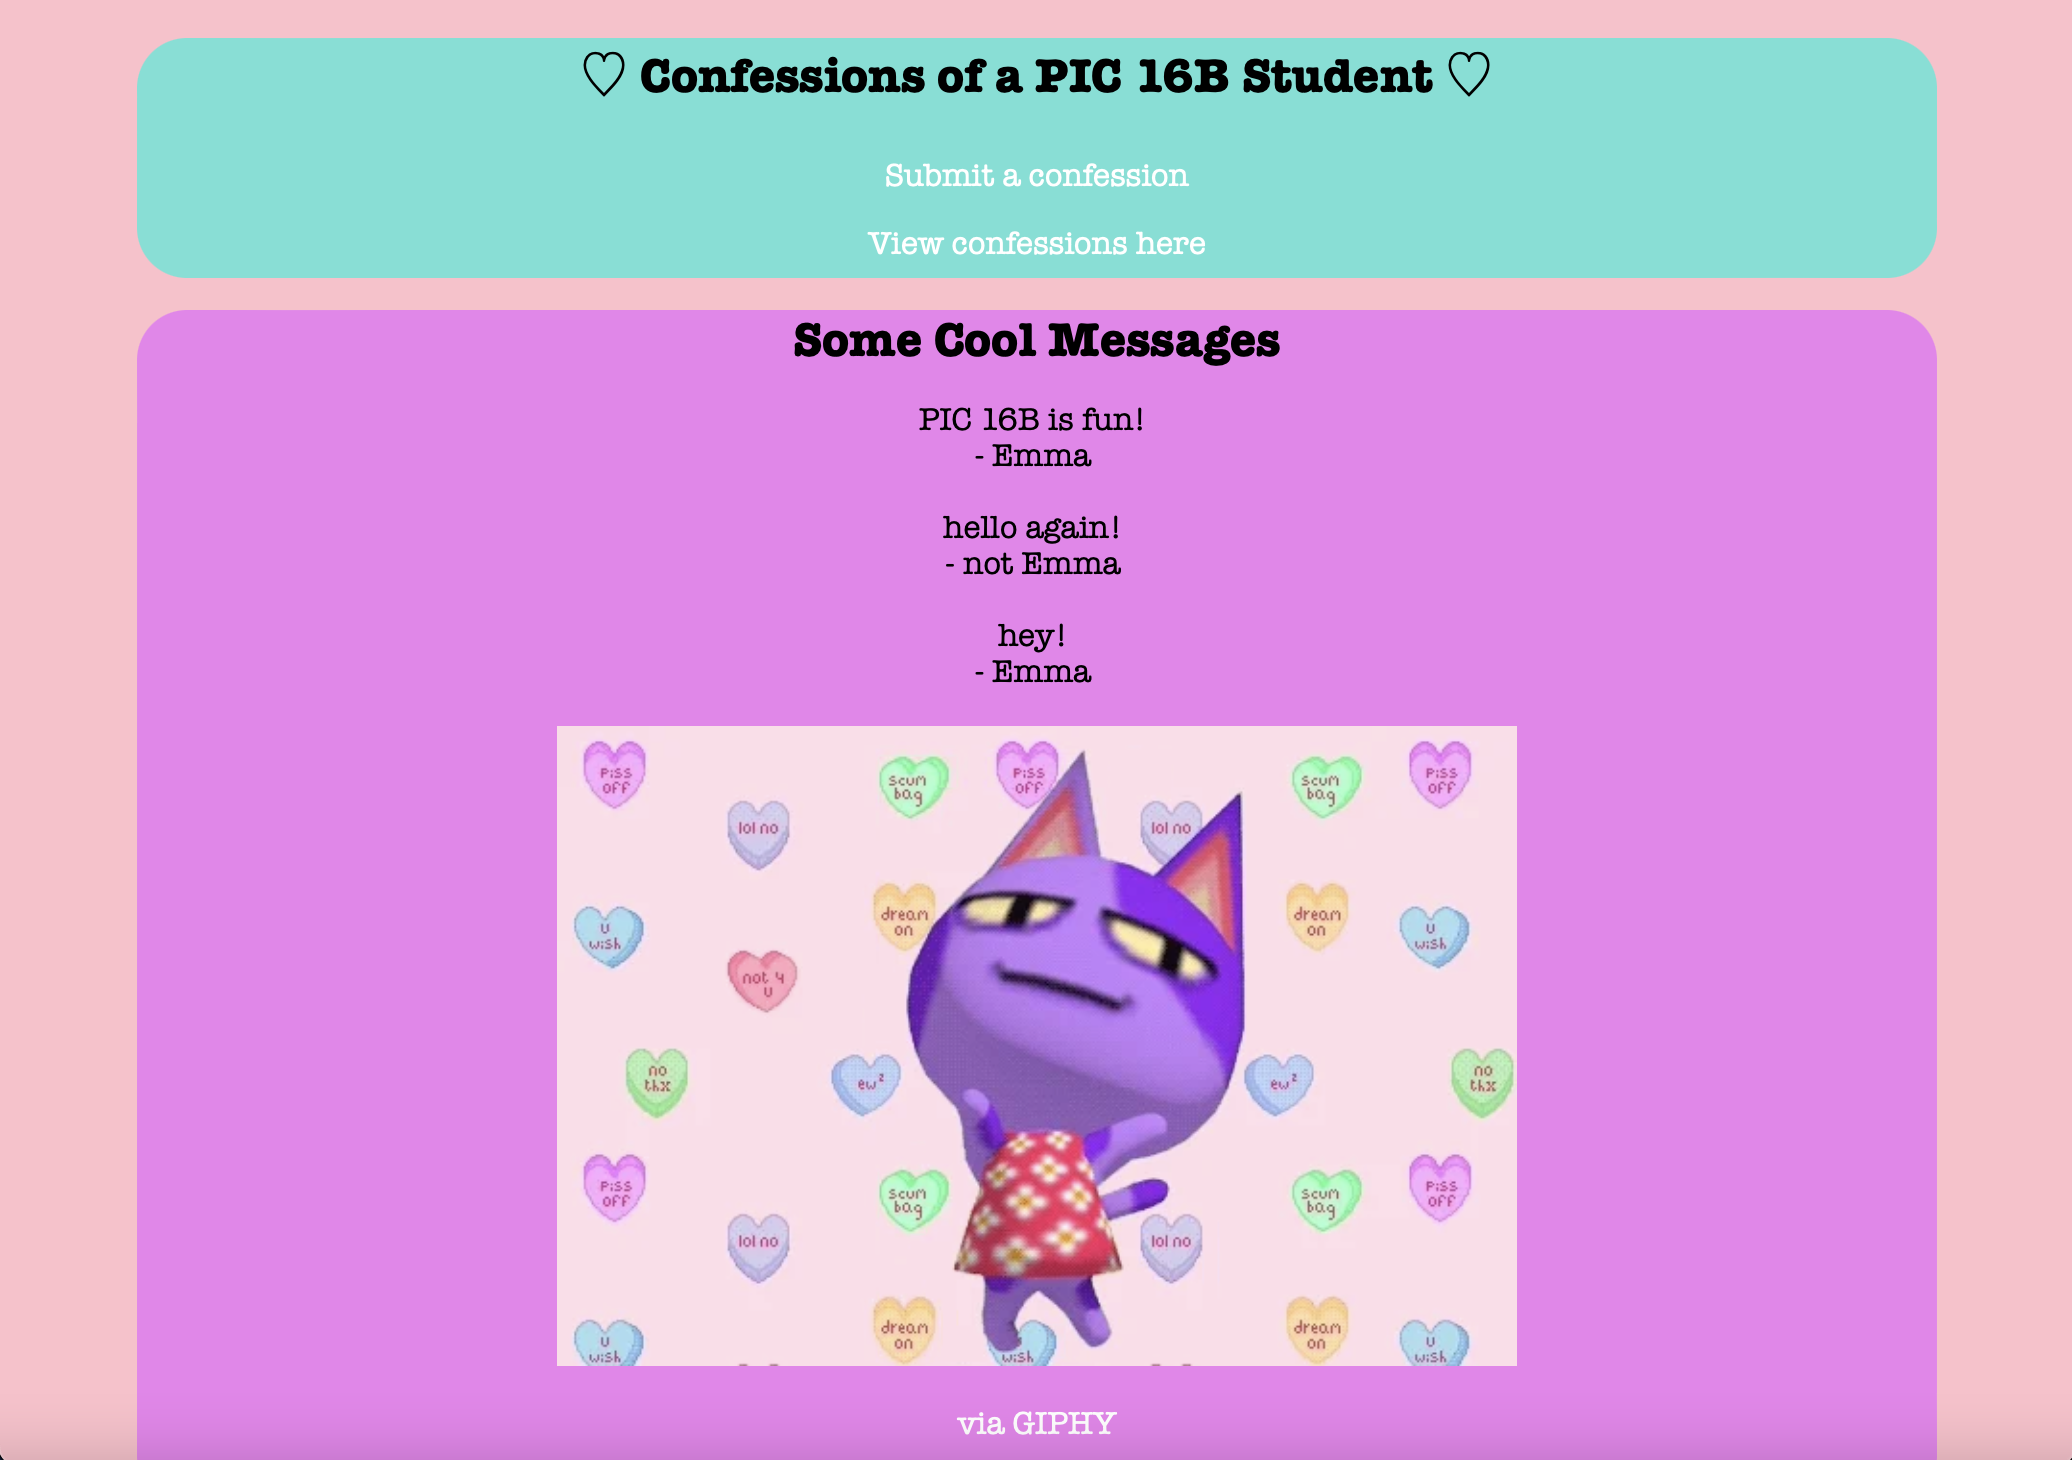
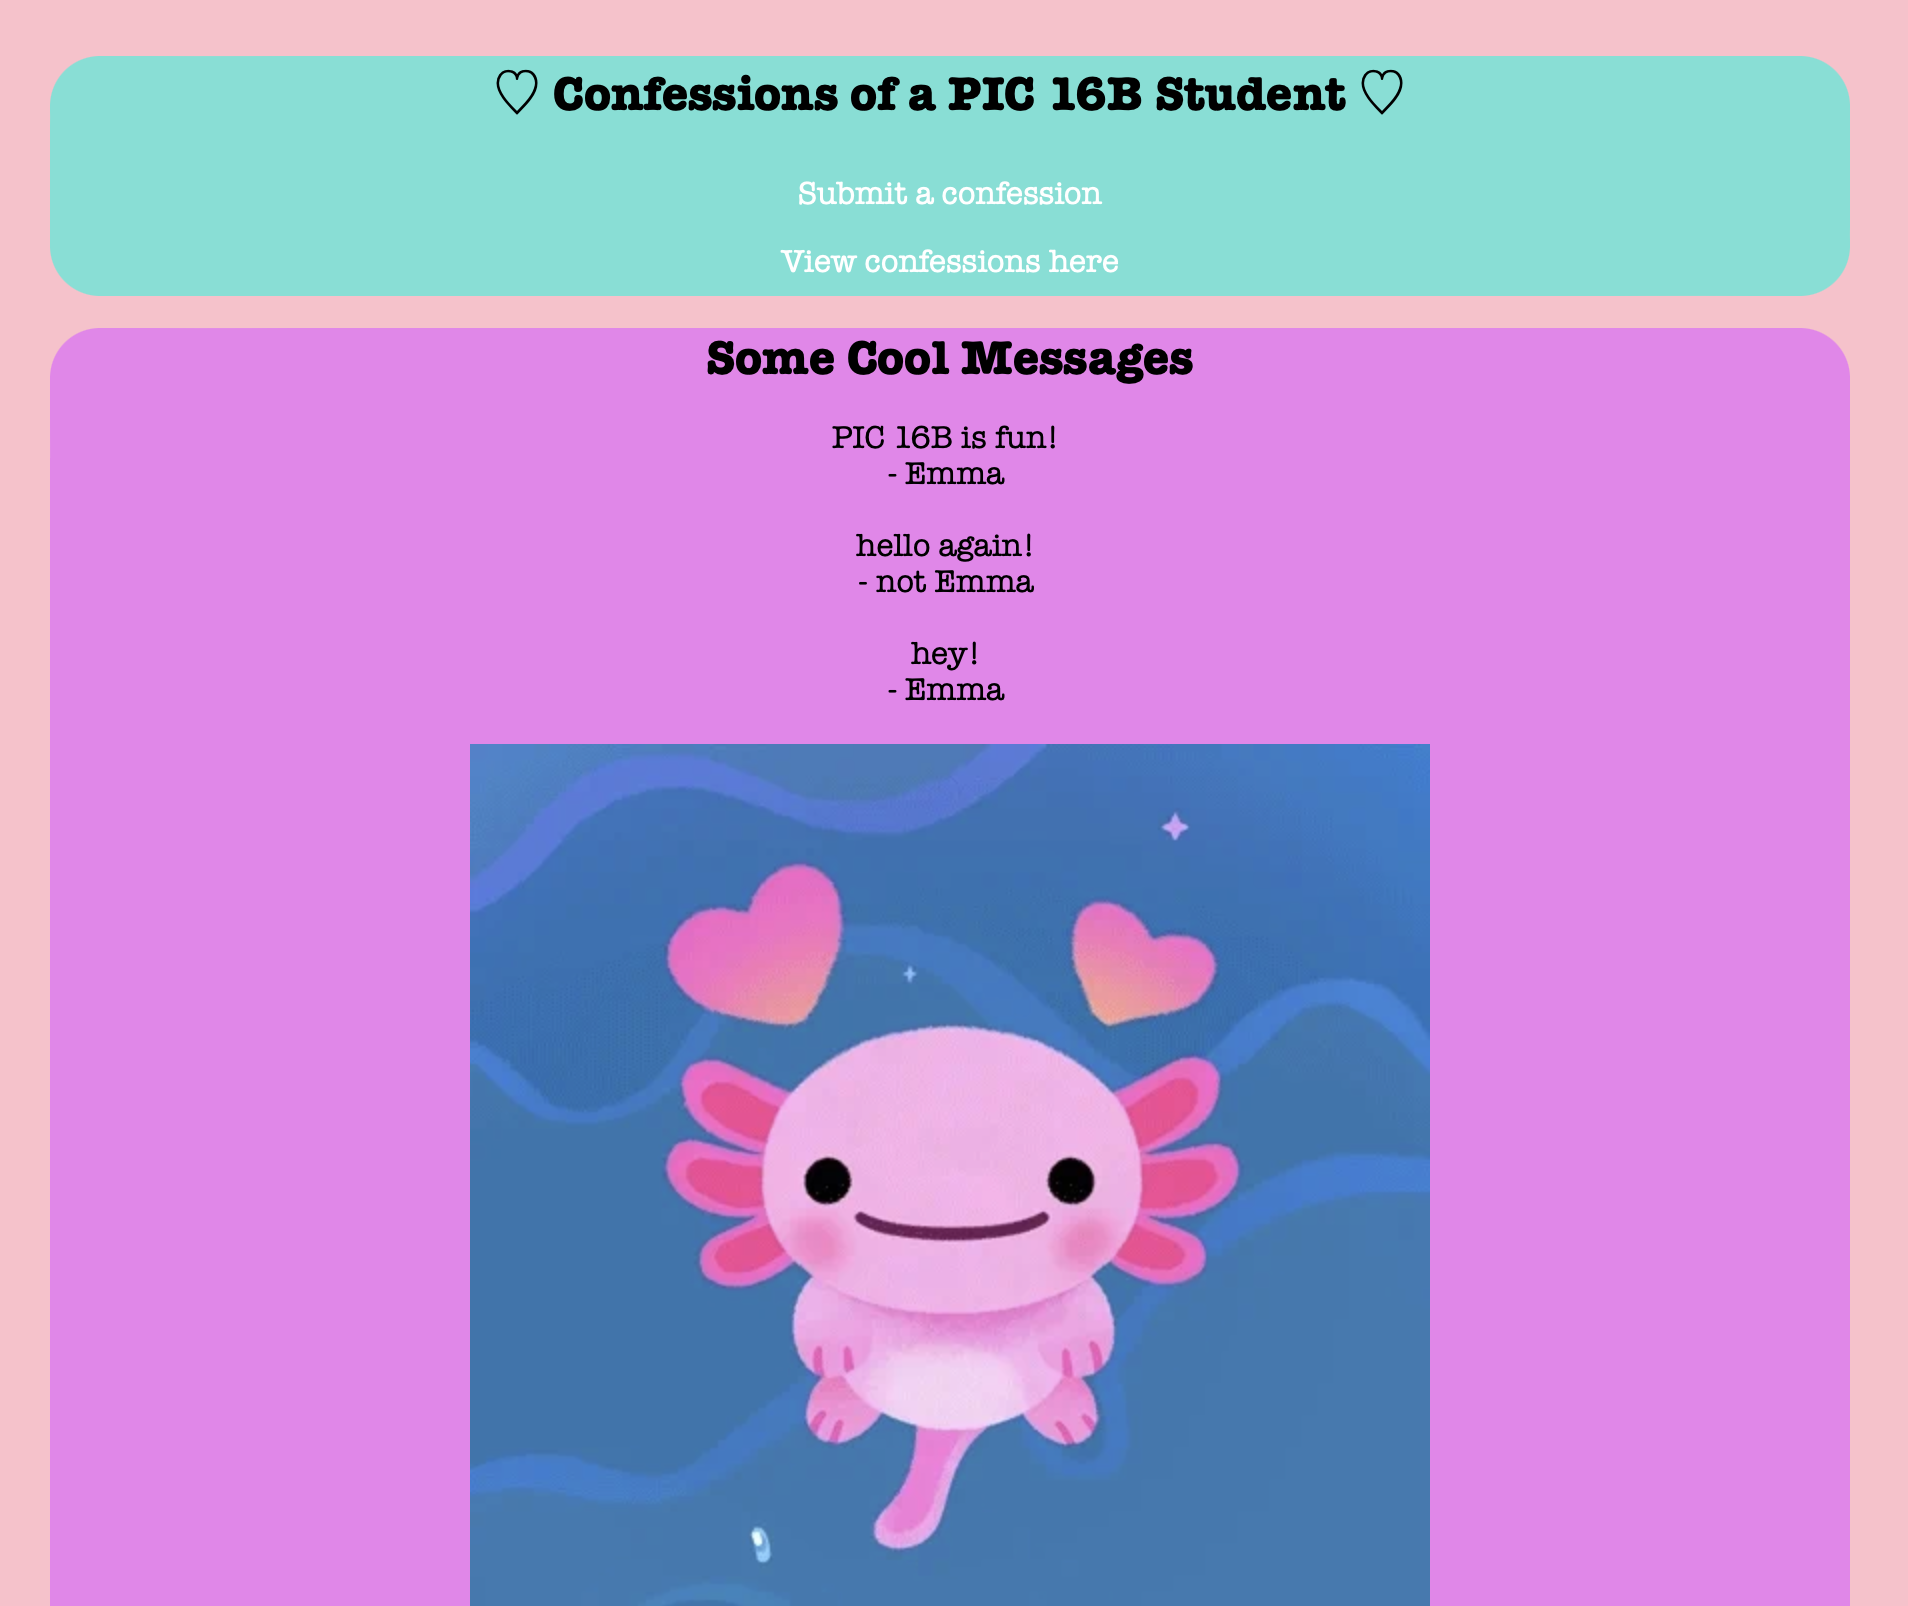
changed gif

diff --git a/_posts/2022-01-31-Blog_Post_2.md b/_posts/2022-01-31-Blog_Post_2.md
@@ -42,7 +42,7 @@ For reference, here is a screenshot of what the submit page looks like on our we
 ![image-example.png](/images/submit.png)
 
 ### view.html
-Our final template indicates what the `view messages` link displays. Its structure is fairly similar to that of the `submit.html` template as it also extents the `base.html` template and specifies the content that is displayed. When writing the code for the template, I used a for loop to loop through the different messages queried by our database. Once again, we will talk more about this in depth in a little bit, but the messages are passed as an argument into the `render_template()` function when `view.html` is called. Lastly, I included this fun GIF of Bob from my favorite game, Animal Crossing :)
+Our final template indicates what the `view messages` link displays. Its structure is fairly similar to that of the `submit.html` template as it also extents the `base.html` template and specifies the content that is displayed. When writing the code for the template, I used a for loop to loop through the different messages queried by our database. Once again, we will talk more about this in depth in a little bit, but the messages are passed as an argument into the `render_template()` function when `view.html` is called. Lastly, I included this fun GIF for your enjoyment :)
 
 ![image-example.png](/images/view.png)
 
@@ -180,5 +180,5 @@ Hopefully now you are able to write your own simple webapp using Flask. Thanks f
 ~ Emma
 
 
-### GitHub Repository Link
-https://github.com/emmakbradley/my_blog_post_2
+### GitHub Repository Link:
+[here](https://github.com/emmakbradley/my_blog_post_2)

diff --git a/_posts/2022-02-07-blog_post_3.md b/_posts/2022-02-07-blog_post_3.md
@@ -479,5 +479,5 @@ In summary, during this blog post we were able to scrape data from the IMDB webs
 
 ~ Emma
 
-### GitHub Repository Link
-https://github.com/emmakbradley/blog_post_3
+### GitHub Repository Link:
+[here](https://github.com/emmakbradley/blog_post_3)
